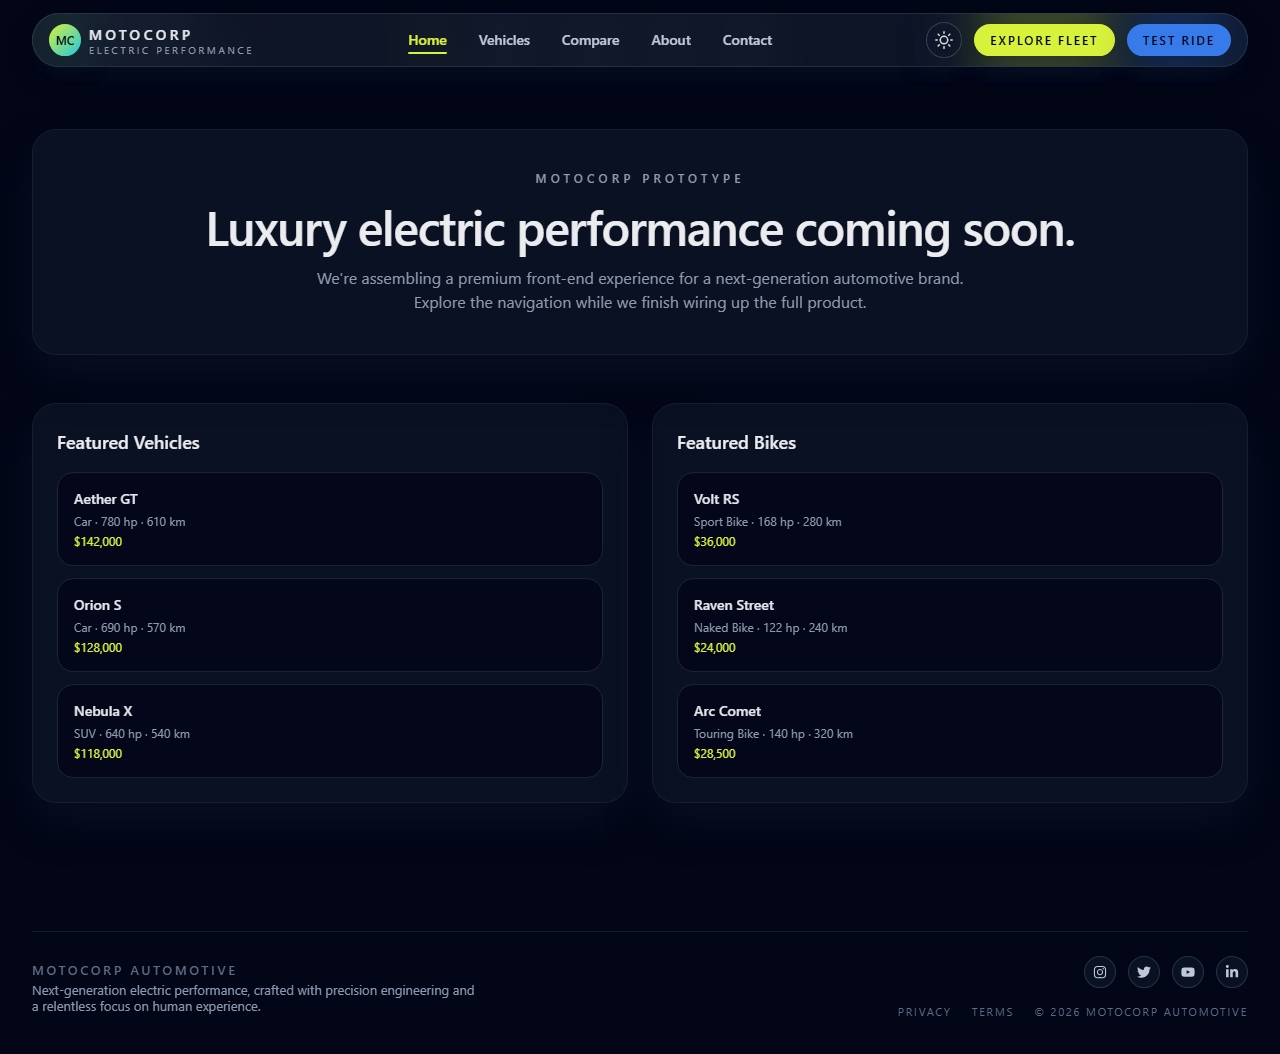
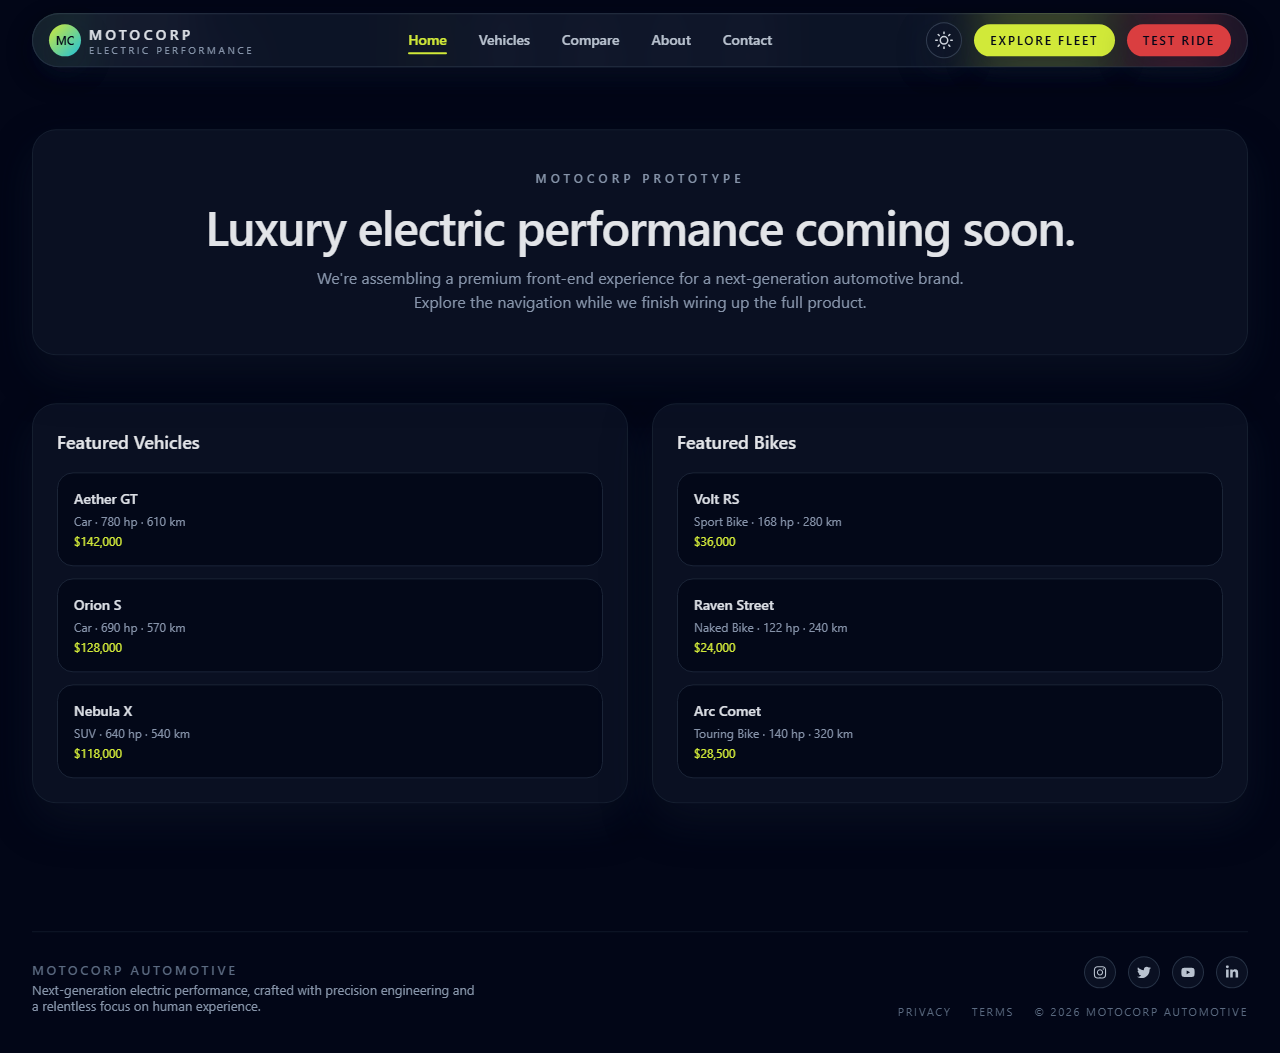
Implemented requirements from web UI on branch main

diff --git a/tailwind.config.js b/tailwind.config.js
@@ -1,38 +1,7 @@
-/** @type {import('tailwindcss').Config} */
-export default {
-  content: ['./index.html', './src/**/*.{js,jsx,ts,tsx}'],
-  darkMode: 'class',
-  theme: {
-    extend: {
-      fontFamily: {
-        sans: ['system-ui', '-apple-system', 'BlinkMacSystemFont', 'Segoe UI', 'sans-serif'],
-        display: ['system-ui', '-apple-system', 'BlinkMacSystemFont', 'Segoe UI', 'sans-serif'],
-      },
-      colors: {
-        primary: {
-          DEFAULT: '#e5ff3d',
-          foreground: '#020617',
-        },
-        accent: {
-          DEFAULT: '#22d3ee',
-        },
-        surface: {
-          DEFAULT: 'rgba(15,23,42,0.85)',
-          light: 'rgba(15,23,42,0.6)',
-        },
-        blue: {
-          DEFAULT: '#0000ff',
-        },
-      },
-      backgroundImage: {
-        'radial-glow':
-          'radial-gradient(circle at top, rgba(96,165,250,0.25), transparent 60%), radial-gradient(circle at bottom, rgba(14,165,233,0.18), transparent 60%)',
-      },
-      boxShadow: {
-        glass: '0 18px 45px rgba(15,23,42,0.6)',
-        soft: '0 10px 30px rgba(15,23,42,0.35)',
-      },
-    },
-  },
-  plugins: [],
-}
+/* src/components/Navbar.jsx */
+<Link
+  to="/contact"
+  className="mt-2 flex items-center justify-center rounded-2xl bg-red-500 px-3 py-2 text-xs font-semibold uppercase tracking-[0.16em] text-slate-950"
+>
+  Test Ride
+</Link>

diff --git a/src/components/Navbar.jsx b/src/components/Navbar.jsx
@@ -143,7 +143,7 @@ export default function Navbar() {
 
             <Link
               to="/contact"
-              className="hidden items-center justify-center rounded-full bg-blue-500 px-4 py-2 text-xs font-semibold uppercase tracking-[0.16em] text-slate-950 shadow-soft transition hover:bg-blue-600 md:flex"
+              className="hidden items-center justify-center rounded-full bg-red-500 px-4 py-2 text-xs font-semibold uppercase tracking-[0.16em] text-slate-950 shadow-soft transition hover:bg-red-600 md:flex"
             >
               Test Ride
             </Link>
@@ -178,7 +178,7 @@ export default function Navbar() {
 
                 <Link
                   to="/contact"
-                  className="mt-2 flex items-center justify-center rounded-2xl bg-blue-500 px-3 py-2 text-xs font-semibold uppercase tracking-[0.16em] text-slate-950"
+                  className="mt-2 flex items-center justify-center rounded-2xl bg-red-500 px-3 py-2 text-xs font-semibold uppercase tracking-[0.16em] text-slate-950"
                 >
                   Test Ride
                 </Link>

diff --git a/src/App.css b/src/App.css
@@ -184,6 +184,6 @@
 }
 
 .test-ride-button {
-  background-color: blue;
+  background-color: red;
   color: white;
 }